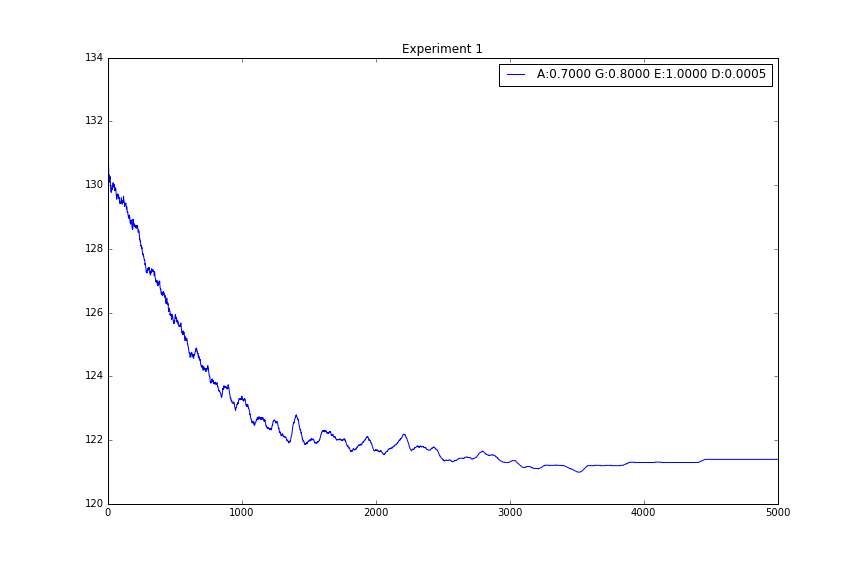
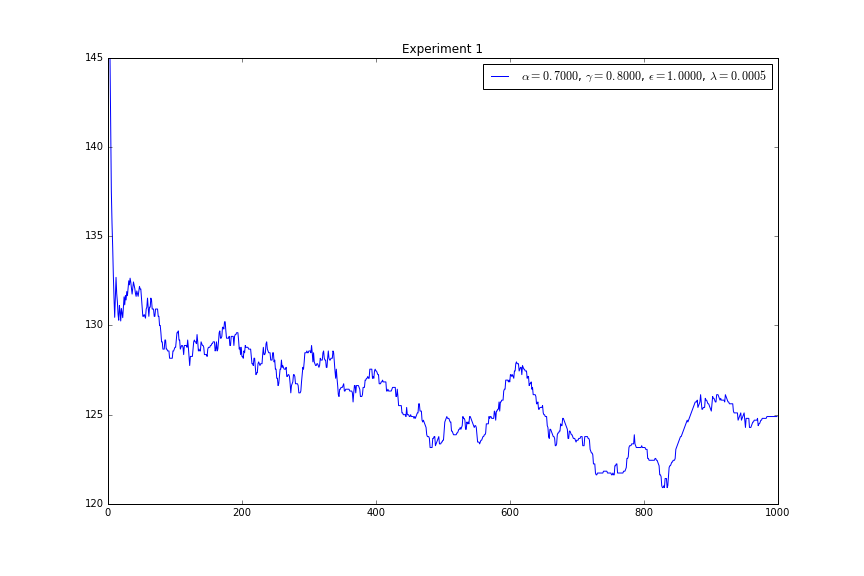
added new function to plots, added new script for loading results

diff --git a/plotdata.py b/plotdata.py
@@ -5,6 +5,8 @@ Created on Tue Mar 28 16:05:31 2017
 @author: miguelesteras
 """
 
+import matplotlib.pyplot as plt
+
 def heatmap(grid,a,b):
     
     # import dependecies
@@ -224,4 +226,16 @@ def plotLines(matrix,variable,baseline,title):
     for legobj in legend.legendHandles:
         legobj.set_linewidth(5)
     
-    plt.show()                                
+    plt.show()
+
+def diagnosticsPlot(plotData, legendData, title): 
+    
+    
+    
+    plt.figure(figsize=(12,8))
+    plt.plot(plotData)
+    plt.title(title, fontsize = 20, style = 'normal', fontname = 'cambria')
+    plt.xlabel('Epochs', fontsize = 17, style = 'italic', fontname = 'cambria')
+    plt.ylabel('Cost Difference vs Optimal Tour', fontsize = 17, style = 'italic', fontname = 'cambria')
+    plt.legend(legendData.values())
+    plt.grid()                                

diff --git a/tspExperiments.py b/tspExperiments.py
@@ -12,7 +12,8 @@ Created on Sat Mar 25 17:10:03 2017
 import numpy as np
 import matplotlib.pyplot as plt
 from tspFunctions import *
-from plotdata import plotBrokenLines, plotLines, plotRoutes, heatmap
+from plotdata import *
+import pickle
 
 #%% Load problem and define parameters
 
@@ -27,9 +28,9 @@ epsilons = [1.0]
 epsilon_decays = [0.0005]
 
 start = 0
-epochs =5000 # init epochs count
+epochs = 1000 # init epochs count
 goal_reward = 100
-sampling_runs = 50
+sampling_runs = 1
 
 title = 'Experiment 1'
 
@@ -46,8 +47,8 @@ plt.title(title)
 plt.savefig(title)
 
 # save results
-np.save('exp1_results', mean_costs_matrix)
-np.save('exp1_parameters', parameter_records)        
+#np.save('exp1_results', mean_costs_matrix)
+#np.save('exp1_parameters', parameter_records)        
 
 #%% Q-Learning Experiment 2: Vary Learning Rate (Alpha)
 

diff --git a/tspFunctions.py b/tspFunctions.py
@@ -200,7 +200,7 @@ def testParameters(alphas, gammas, epsilons, epsilon_decays,  sampling_runs, epo
                         # calculate mean costs across all 'sampling_runs'
                         mean_costs = np.mean(costs_matrix, 1)
                      
-                    ps_dic[loop_idx] = ('A:%.4f G:%.4f E:%.4f D:%.4f' % (alpha, gamma, epsilon, epsilon_decay)) 
+                    ps_dic[loop_idx] = (r'$\alpha = %.4f$, $\gamma = %.4f$, $\epsilon = %.4f$, $\lambda = %.4f$' % (alpha, gamma, epsilon, epsilon_decay)) 
                     #ps_dic[loop_idx] = ('A [%.2f], G [%.2f], E [%.2f], D [%.4f]' % (alpha, gamma, epsilon, epsilon_decay))   
                     mean_costs_matrix[:, loop_idx] = mean_costs; loop_idx +=1
                     

diff --git a/loadExperiments.py b/loadExperiments.py
@@ -1,0 +1,18 @@
+# -*- coding: utf-8 -*-
+"""
+Created on Sat Apr  1 16:57:56 2017
+
+@author: Ronan
+"""
+
+import numpy as np
+
+exp1_results = np.load('exp1_results.npy')
+exp2_results = np.load('exp2_results.npy')
+exp2_results = np.load('exp3_results.npy')
+exp3_results = np.load('exp3_results.npy')
+
+exp1_parameters = np.load('exp1_parameters.npy')
+exp2_parameters = np.load('exp2_parameters.npy')
+exp2_parameters = np.load('exp3_parameters.npy')
+exp3_parameters = np.load('exp3_parameters.npy')
